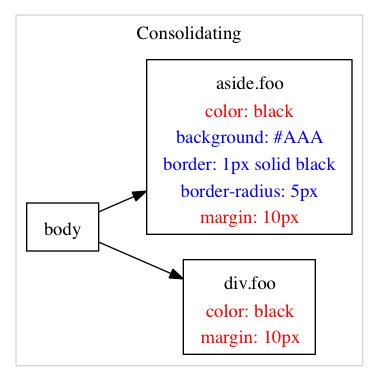
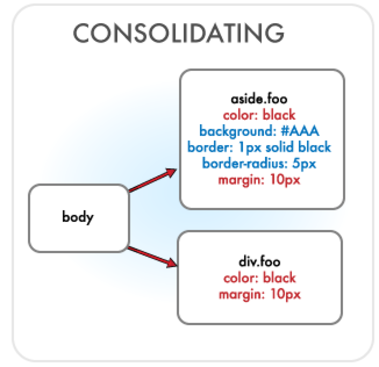
Improve illustrations, add faq

diff --git a/README.md b/README.md
@@ -22,6 +22,44 @@ Runs best in [Google Chrome](//www.google.com/chrome).
 1. The new CSS will appear in the console.
 1. (optionally) Feed output through [sass-convert](http://blog.derekperez.com/post/816063805/move-you-existing-stylebase-over-to-sass-or-scss)
 
+## Faq
+
+<dl>
+  <dt>Does this thing clobber or remove my styles?</dt>
+  <dd>No. If your page renders differently after using
+  Ratiocinator-generated style then that's a bug. This software may move
+  styles around during the assessment stage of its algorithm but the
+  end result respects the original styles you have created. Note that it
+  may achieve these styles using a different combination of selectors
+  and inheritance than your original CSS did.</dd>
+
+  <dt>Can it work on a whole site (multiple pages)?</dt>
+  <dd>In principle yes, but not yet. The strategy will be to ajax the
+  pages together into a single page with multiple body tags. This long
+  assembled page will provide enough data to the Ratiocinator to create
+  a new style that respects everything your site does.</dd>
+
+  <dt>Pasting the code into the console is weird, is there a better way?</dt>
+  <dd>Yes, it is weird and there will be a better way. What you see
+  so far is an experiment to try the automated refactoring ideas.
+  Ultimately I imagine creating a command-line tool that accepts urls
+  and outputs to stdout.</dd>
+
+  <dt>How is this different from other CSS tidying programs?</dt>
+  <dd>The Ratiocinator does not read your CSS files at all, it ignores
+  them completely. It relies on the live DOM to infer what your styles
+  want to accomplish. The thoroughness of the results you get are based
+  on the quality and completeness of the example DOM that you provide the
+  program.</dd>
+
+  <dt>Does it capture styles for the "sad path?"</dt>
+  <dd>It captures styles for whatever you show it, so if you have styles
+  for errors or form validation problems or various element states
+  then you'll need to include the markup to demonstrate them. The most
+  effective input is a living style guide for your site. You do use a
+  style guide, don't you?</dd>
+</dl>
+
 ## Mechanism
 
 The Ratiocinator proceeds in two phases: assessment and consolidation.
